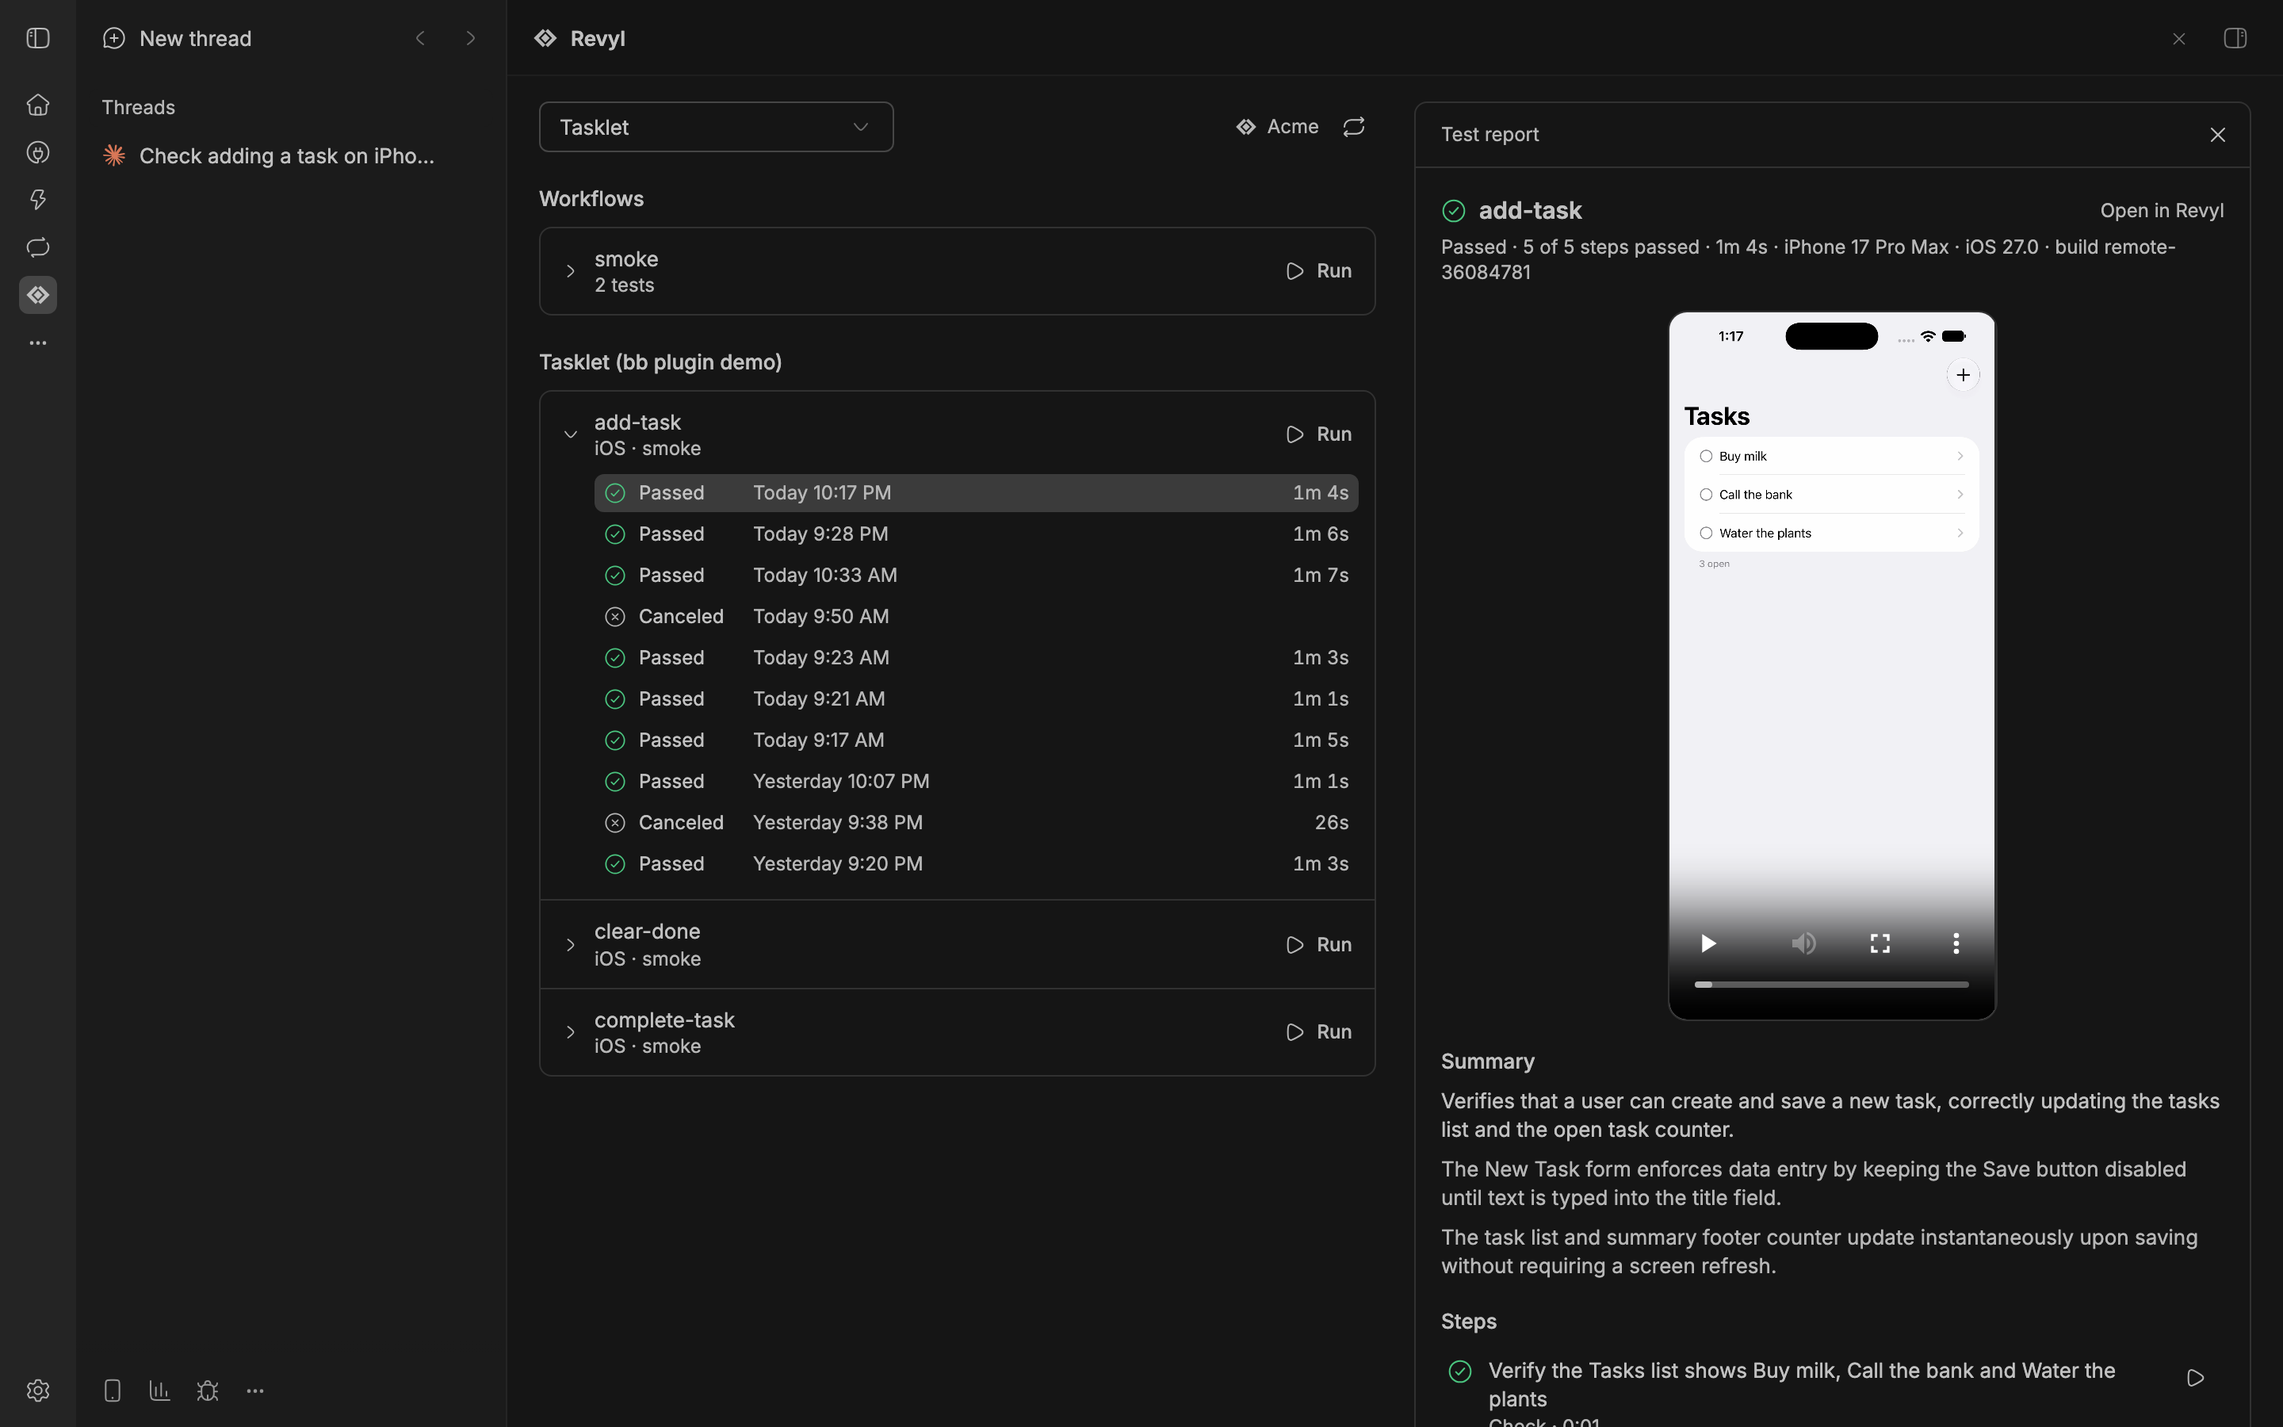
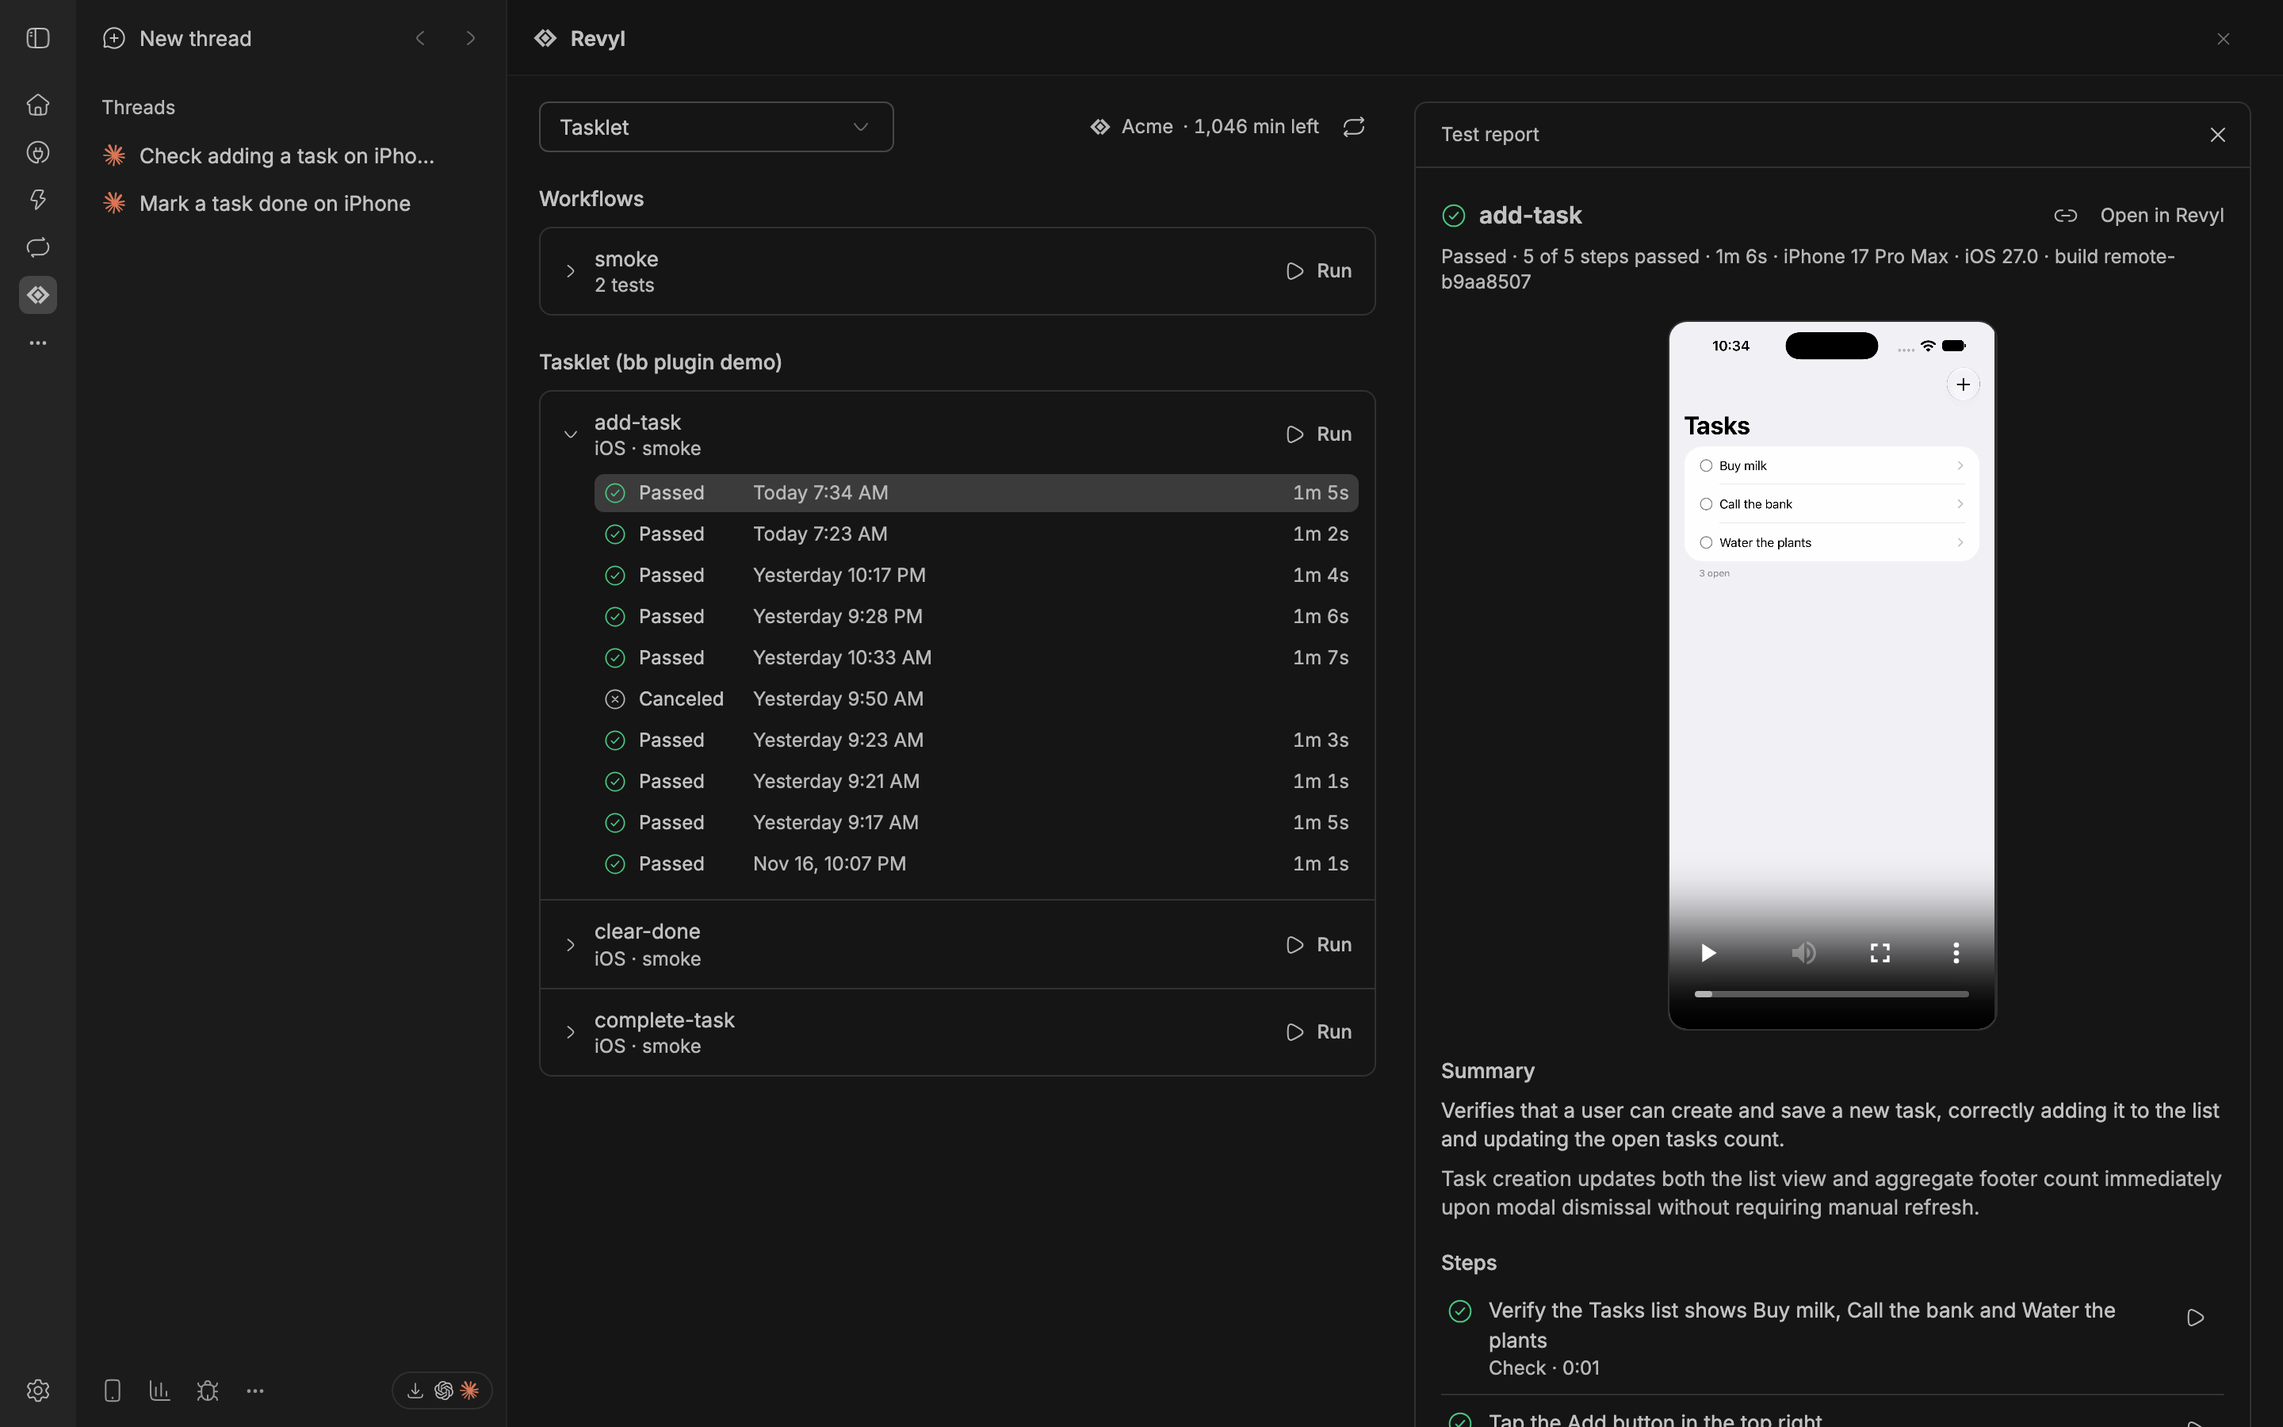
Revyl for bb 0.2.7

diff --git a/README.md b/README.md
@@ -44,7 +44,7 @@ Turn on Test on Revyl for a [bb](https://getbb.app) thread. Its agent builds on 
 
 1. **Turn on Test on Revyl** in the thread's composer. The agent now builds, tests and runs the app only on Revyl.
 2. **It builds on Revyl's runners.** The build appears above the composer and passes or fails there, with the failing step if it breaks.
-3. **It proves the change with Revyl tests**, and writes one when none covers it. Each run gets a report with video and steps.
+3. **It proves the change with Revyl tests**, and writes one when none covers it. Each run gets a report with video and steps, and a failed run says which step broke and why.
 4. **It works a cloud device**, and the device pane opens beside the chat. You see every tap, swipe and screenshot as it lands, as in this real recording.
 5. **It pins the evidence in its reply:** live test results and the screen it saw.
 
@@ -87,7 +87,7 @@ One button in the composer. With it on, the thread's agent (Claude Code, Codex o
 <td width="50%" valign="top">
 
 **Builds and tests above the composer**<br>
-Every cloud build and test run shows live, then passes or fails. A failed build names its profile, the step that broke and Revyl's error.
+Every cloud build and test run shows live, then passes or fails. A failed test names the step it stopped at and why; a failed build names its profile, the step that broke and Revyl's error.
 
 </td>
 </tr>
@@ -95,13 +95,13 @@ Every cloud build and test run shows live, then passes or fails. A failed build 
 <td width="50%" valign="top">
 
 **The device beside the chat**<br>
-When the agent starts a cloud device, the device pane opens by itself while the thread is open, and streams it live, with each thing the agent does listed as it happens. Take over with tap, swipe and type when the agent is idle.
+When the agent starts a cloud device, the device pane opens by itself while the thread is open, and streams it live, with each thing the agent does listed as it happens. Take over when the agent is idle: tap, swipe, type, open a link, relaunch the app.
 
 </td>
 <td width="50%" valign="top">
 
 **Reports with video and steps**<br>
-Open any run for its recording with a step timeline, each step's screenshot and reasoning, and Revyl's summary.
+Open any run for its recording with a step timeline, each step's screenshot and reasoning, Revyl's summary, and the app's CPU, memory, frame rate, warnings and errors.
 
 </td>
 </tr>
@@ -128,7 +128,7 @@ Agents get a token for their own thread. A proxy on the bb server adds the key a
   <img src="assets/screenshots/runs.png" width="100%" alt="The Revyl card above the composer: two test runs, a unit-tests build that failed with its error line, and two development builds that passed">
 </picture>
 
-Each row is one cloud build, test or workflow run: queued, step 2 of 5, passed or failed, with how long it took and how long ago. Each build is named by its profile, such as `development build` or `unit-tests build`, and a failed one shows Revyl's error and suggested fix in full. Open a run's report, run it again on the same build, or cancel it. Starting a run from bb asks first, because it uses Revyl device minutes.
+Each row is one cloud build, test or workflow run: queued, step 2 of 5, passed or failed, with how long it took and how long ago. A failed test says which step it stopped at and Revyl's reason, so you know whether the app or the test is wrong without opening anything. Each build is named by its profile, such as `development build` or `unit-tests build`, and a failed one shows Revyl's error and suggested fix in full. Open a run's report, run it again on the same build, or cancel it. Starting a run from bb asks first and says how many minutes your plan has left.
 
 ## The device pane
 
@@ -153,7 +153,7 @@ Each row is one cloud build, test or workflow run: queued, step 2 of 5, passed o
 </tr>
 </table>
 
-Agents start devices without a browser, so this pane is how you see them. It opens by itself once per device while the thread is open in bb, and follows the thread's device: the app, build and branch, how long it has run, and each tap, swipe, screenshot and keystroke the agent sends (never the text it types). When the agent is idle, click to tap, drag to swipe, and type into the field you tapped. After the device stops, the pane keeps its last screen and says how it ended: stopped by the agent, from bb, after sitting idle, or with the thread.
+Agents start devices without a browser, so this pane is how you see them. It opens by itself once per device while the thread is open in bb, and follows the thread's device: the app, build and branch, how long it has run, and each tap, swipe, screenshot and keystroke the agent sends (never the text it types). When the agent is idle, click to tap, drag to swipe, type into the field you tapped, press Enter or Delete, paste a link or deep link to open it, or relaunch the app. Starting a device yourself, pick the iPhone or Android model and OS version first. Stop waits until Revyl confirms the device is off, so nothing keeps billing unseen. After the device stops, the pane keeps its last screen and says how it ended: stopped by the agent, from bb, after sitting idle, or with the thread.
 
 ## Reports
 
@@ -162,7 +162,33 @@ Agents start devices without a browser, so this pane is how you see them. It ope
   <img src="assets/screenshots/report.png" width="100%" alt="A test report in the side panel: the run's video, Revyl's summary and the steps with their timestamps">
 </picture>
 
-A run's recording with a step timeline: click a step to jump the video there, read the reasoning behind each action, and see Revyl's summary of what the test proved. Workflows list their tests, each with its own report.
+A run's recording with a step timeline: click a step to jump the video there, read the reasoning behind each action, and see Revyl's summary of what the test proved. Workflows list their tests, each with its own report. Copy the report link for anyone in your Revyl org.
+
+<table>
+<tr>
+<td width="46%" valign="top">
+
+<picture>
+  <source media="(prefers-color-scheme: dark)" srcset="assets/screenshots/diagnostics-dark.png">
+  <img src="assets/screenshots/diagnostics.png" width="100%" alt="The report's Performance, logs and network section: CPU, memory and frame rate, the run's warnings and errors, and its network capture">
+</picture>
+
+</td>
+<td width="54%" valign="top">
+
+**Performance, logs and network**
+
+Under the steps, one section answers what the app was doing while the test ran:
+
+- **Performance:** average and peak CPU, memory and frame rate.
+- **Warnings and errors:** the app's device log, trimmed to the lines that matter.
+- **Network:** failed requests, when Revyl captured the run's traffic.
+
+Revyl reads them when you open the section; bb stores none of it.
+
+</td>
+</tr>
+</table>
 
 ## Proof in the reply
 
@@ -180,7 +206,7 @@ The agent pins its evidence where you read its answer. A test card stays live un
   <img src="assets/screenshots/page.png" width="100%" alt="The Revyl page: workflows and tests of a project, a test's recent runs, and a report open on the right">
 </picture>
 
-Browse the tests and workflows of a project whose repo has Revyl files, or of the whole org. Open one for its recent runs, read any report, and run it.
+Browse the tests and workflows of a project whose repo has Revyl files, or of the whole org. Open one for its recent runs, read any report, and run it. The toolbar shows how many device minutes your plan has left; Settings has the plan, when it resets, and a link to billing.
 
 ## How it works
 
@@ -192,7 +218,7 @@ flowchart LR
 ```
 
 - **The key stays on the bb server.** A thread with Test on Revyl on gets `REVYL_BACKEND_URL`, pointing at the plugin's proxy route, and `REVYL_API_KEY`, a token that works only through that proxy and only for that thread. bb shows a thread's environment in its timeline, so the real key never goes into it. Revyl's account endpoint returns the key, so the proxy replaces it in every reply.
-- **Each thread acts only on its own work.** The proxy allows a thread the devices, runs and builds it started, one cloud device and one cloud build at a time, and cuts Revyl's org-wide device lists down to the thread's own.
+- **Each thread acts only on its own work.** The proxy allows a thread the devices, runs and builds it started, one cloud device and one cloud build at a time, and cuts Revyl's org-wide device lists down to the thread's own. It refuses public links (report share links, `revyl session publish` and Atlas share links work for anyone who has them), Revyl explorations and cloud Macs, which would use minutes outside the thread's limits, and paths written so Revyl would read them as a different route.
 - **Build, test and run only on Revyl.** The agent's instructions say to build with `revyl build` on Revyl's runners (it uploads the working tree, uncommitted changes included), prove changes with Revyl tests, write and push a test when none covers the change, set up Revyl in a repo that has none, and never use local `xcodebuild`, simulators or emulators for iOS and Android. macOS targets still build locally. Build secrets are asked for one at a time, through bb's secure input.
 - **No forgotten devices.** Archiving or deleting a thread stops its devices and cancels its running tests and builds.
 - **Other bb machines.** Their threads reach Revyl through the same proxy (not verified yet). Each needs the `revyl` CLI but no Revyl sign-in.
@@ -213,9 +239,13 @@ bb revyl connect --key-file <path>   connect with a key read from a file on the 
 bb revyl disconnect                  forget the key
 ```
 
-Every command takes `--json`. A failed build in `bb revyl runs` reads like this:
+Every command takes `--json`. A failed test and a failed build in `bb revyl runs` read like this:
 
 ```text
+test complete-task: failed 4/4
+  failed at step 4: Verify Call the bank is no longer in the list and the footer says 3 open
+  reason: While 'Call the bank' is successfully removed from the task list, the footer displays '1 open' instead of '3 open' as required by the validation criteria.
+  ::revyl{task="5eed0391-6bd6-4821-b0fc-1d3dc7631630"}
 build Tasklet (profile unit-tests): failed
   job 111183f1-d627-4934-ad4f-c5b55be01b33 · branch main
   failed step: bash -c 'echo 2 of 14 TaskletTests failed; exit 65'
@@ -246,6 +276,7 @@ build Tasklet (profile unit-tests): failed
 - The real key lives only in the plugin's secret settings on the bb server. The plugin's own CLI calls use it with a private auth folder, never a sign-in stored on the machine. If the bb server's machine has its own `revyl auth` sign-in, the plugin warns, because agents there could use it to skip the per-thread limits.
 - Report media links expire after an hour and are fetched fresh, never stored. The device stream URL is used only in the pane and never logged.
 - For the device pane, the proxy records each action and its point. It never keeps typed text, its length or an instruction step's text, and keeps only a link's host. It keeps the agent's screenshots in the plugin's database: the latest 12 of each of the thread's 10 latest devices, plus up to 24 per device that replies show. Archiving a thread keeps only those; deleting it removes them all.
+- Text you type into the device from the pane goes to the CLI through its environment, never its arguments, so it does not show in the server's process list. Report logs are read when you open them and never stored.
 - `revyl device` writes a session file into `.revyl/` of the folder it runs in. The plugin runs its own device commands in a temporary folder. When the agent runs `revyl device` in your repo, the file lands in `.revyl/`, which Revyl's `.revyl/.gitignore` keeps out of git.
 - The switch keeps out agents that follow their instructions. bb lets any process on the bb server's machine call a plugin's controls, so it does not stop a determined one.
 
@@ -259,7 +290,9 @@ build Tasklet (profile unit-tests): failed
 - Revyl refuses a source archive over 500 MB, and `revyl build` cannot leave paths out. The agent is told to build a repo with large tracked files from a slim copy.
 - In a sandboxed agent shell, such as Claude Code's sandbox, Revyl's uploads fail a certificate check, so the agent has to run `revyl` outside the sandbox.
 - Each tap or swipe from the pane lands one to two seconds after the click.
+- Revyl captures network traffic on iOS only, and only when the app allows it; otherwise the report's Network section says so.
 - The proxy relies on `REVYL_BACKEND_URL`, which the Revyl CLI reads but Revyl does not document. Tested with revyl 0.2.12.
+- The per-thread limits hold for the agent's `revyl` CLI, which goes through the proxy. bb's plugin RPCs do not say which thread calls them, so a process on the bb machine that calls the plugin's RPCs directly can name another thread. The device pane's input and Stop act only on a device the named thread started.
 
 </details>
 

diff --git a/CHANGELOG.md b/CHANGELOG.md
@@ -1,5 +1,18 @@
 # Changelog
 
+## 0.2.7
+
+- A failed test says which step it stopped at and Revyl's reason: on the run card, on its reply card ("failed at step 4 of 4") and in `bb revyl runs`.
+- The report pane has a Performance, logs and network section (CPU, memory and frame rate, the run's warnings and errors, failed requests), read from Revyl when opened and never stored, and a Copy link button.
+- Minutes: your plan and iOS minutes left show in Settings, on the Revyl page, and in every confirmation that spends minutes.
+- Device pane: pick the model and OS when starting a device (only devices for the project's platforms, named in the confirmation); press Enter or Delete, paste a link or deep link to open it, or relaunch the app; the controls wrap in a narrow side panel; the long worktree branch moved from the header to the details.
+- Fix: Stop now waits until Revyl confirms the device is off (`revyl device stop` can answer `stopped: false`), in the pane and when a thread is archived. A device Revyl already ended counts as stopped, and any other stop error shows Revyl's message.
+- Fix: text typed from the pane went to the CLI as an argument, visible in the server's process list, and replaced the field's contents. It now goes through the environment and adds to the field.
+- Fix: a current `.revyl/config.yaml` (`build.profiles`) now links a project to its app, and Revyl MCP runs through `manage_tests` and `manage_workflows` get cards.
+- The proxy refuses public links (report and workflow share links, `revyl session publish`, Atlas share links), Revyl explorations and cloud Macs in Test on Revyl threads.
+- Fix: the proxy passed percent-escaped paths such as `/api/v1/%65xecution/...` or a trailing `%0A`, which Revyl routes like the plain path, so an agent could get past its rules and reach another thread's device. It now refuses escaped letters, digits, `-._~` and control characters, and `//`.
+- Fix: the device pane's input and Stop act only on a device the thread started.
+
 ## 0.2.6
 
 - Revyl's app icon is the plugin's logo where bb has room for one, beside the theme-colored mark on small surfaces.
